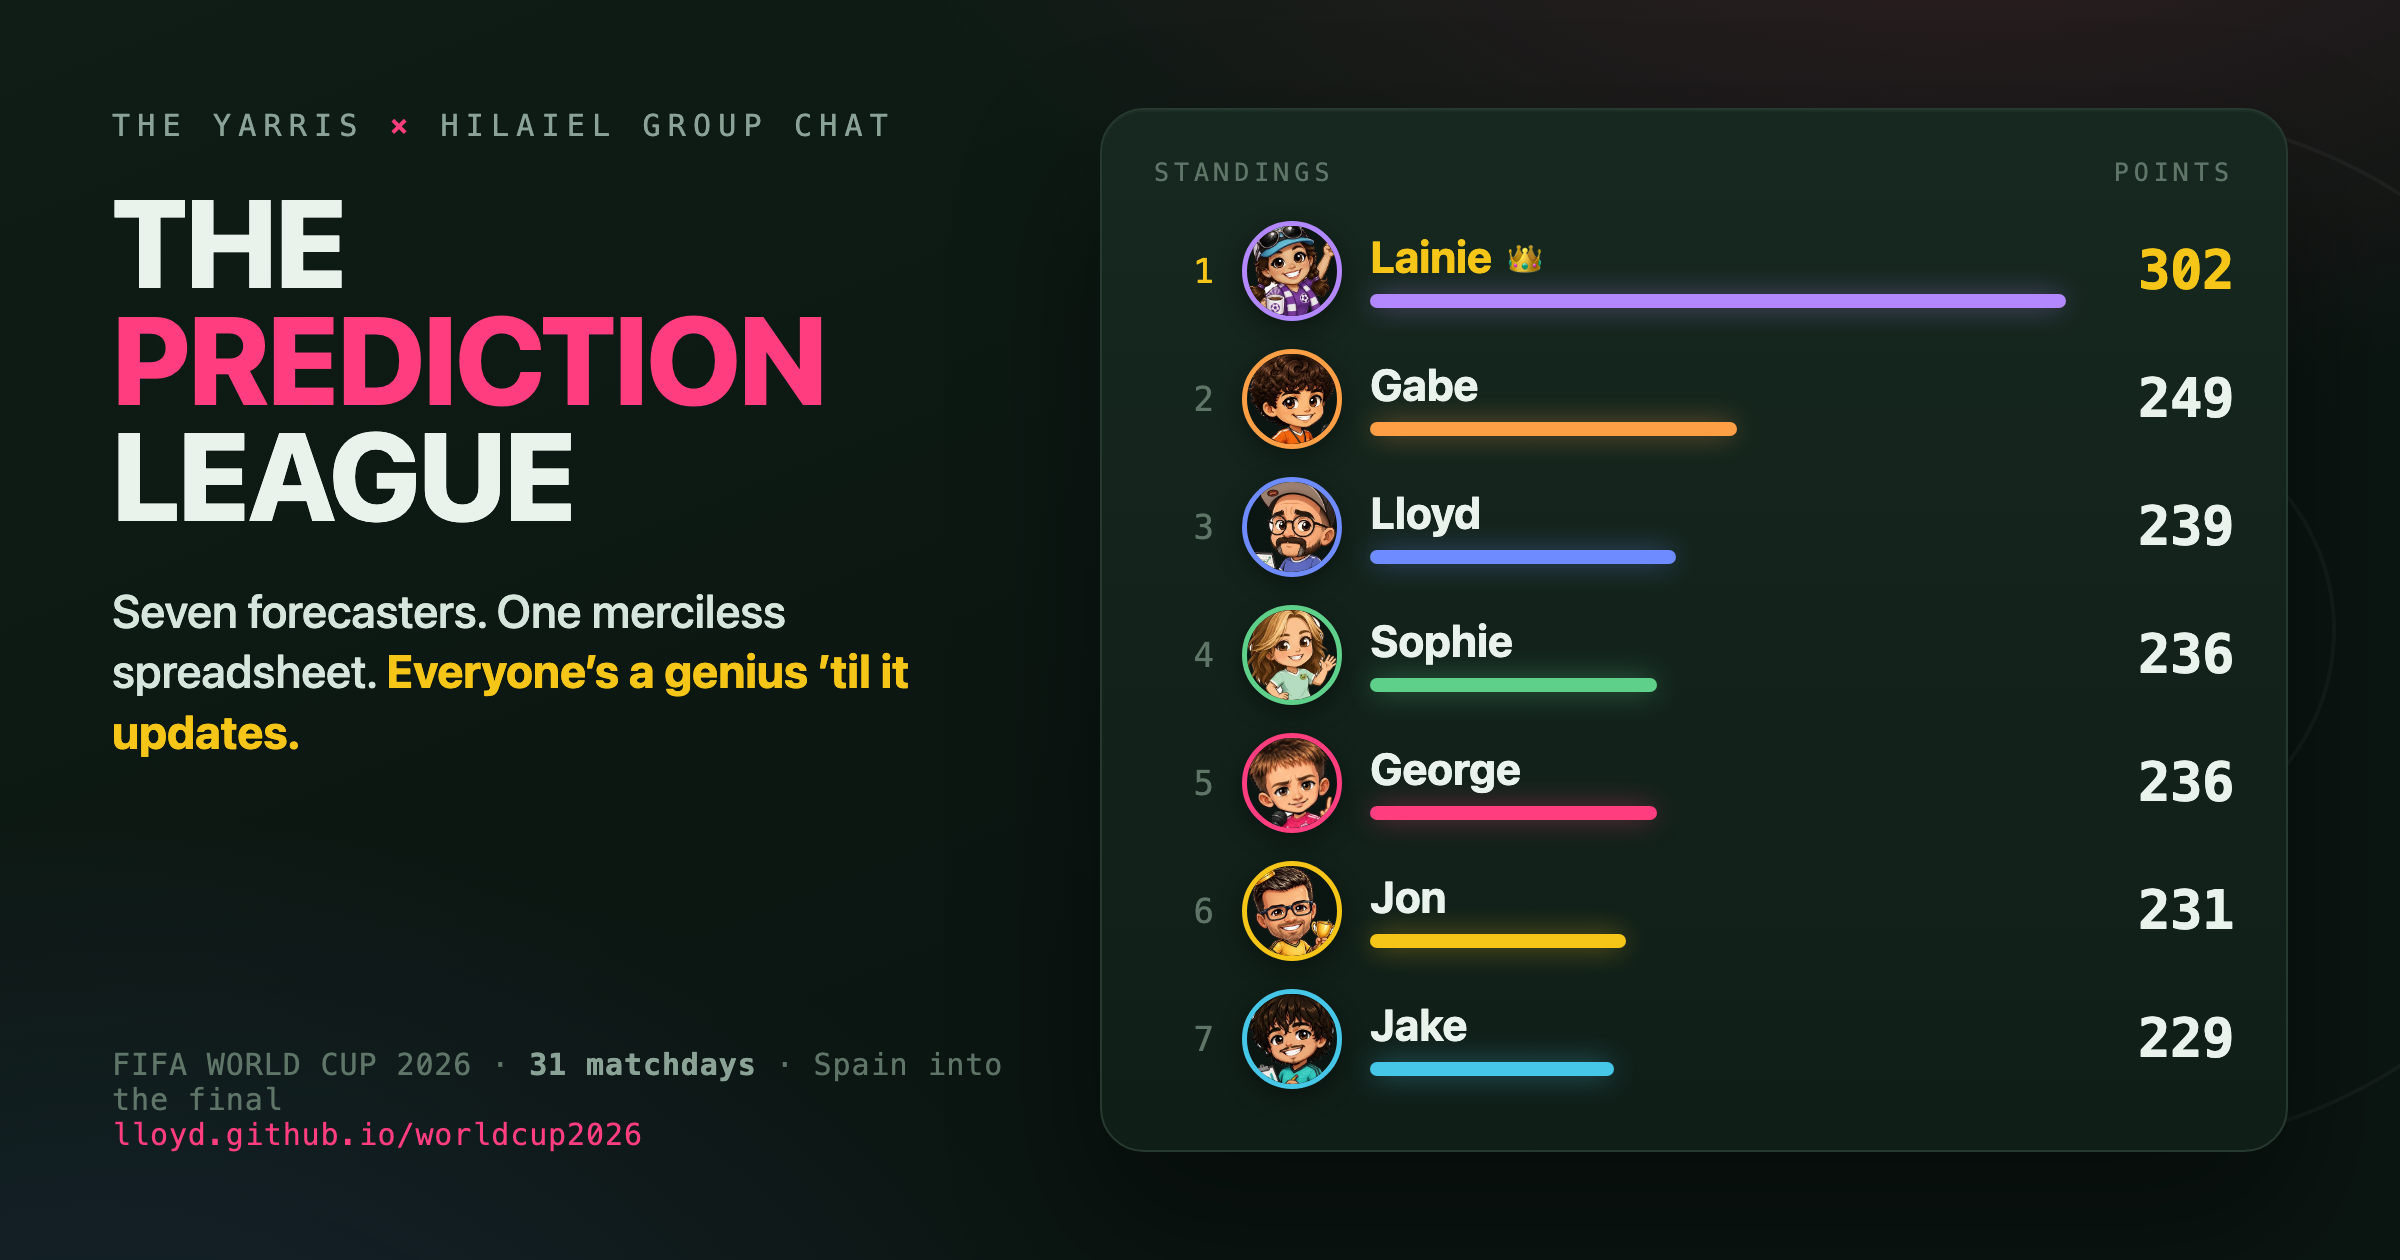
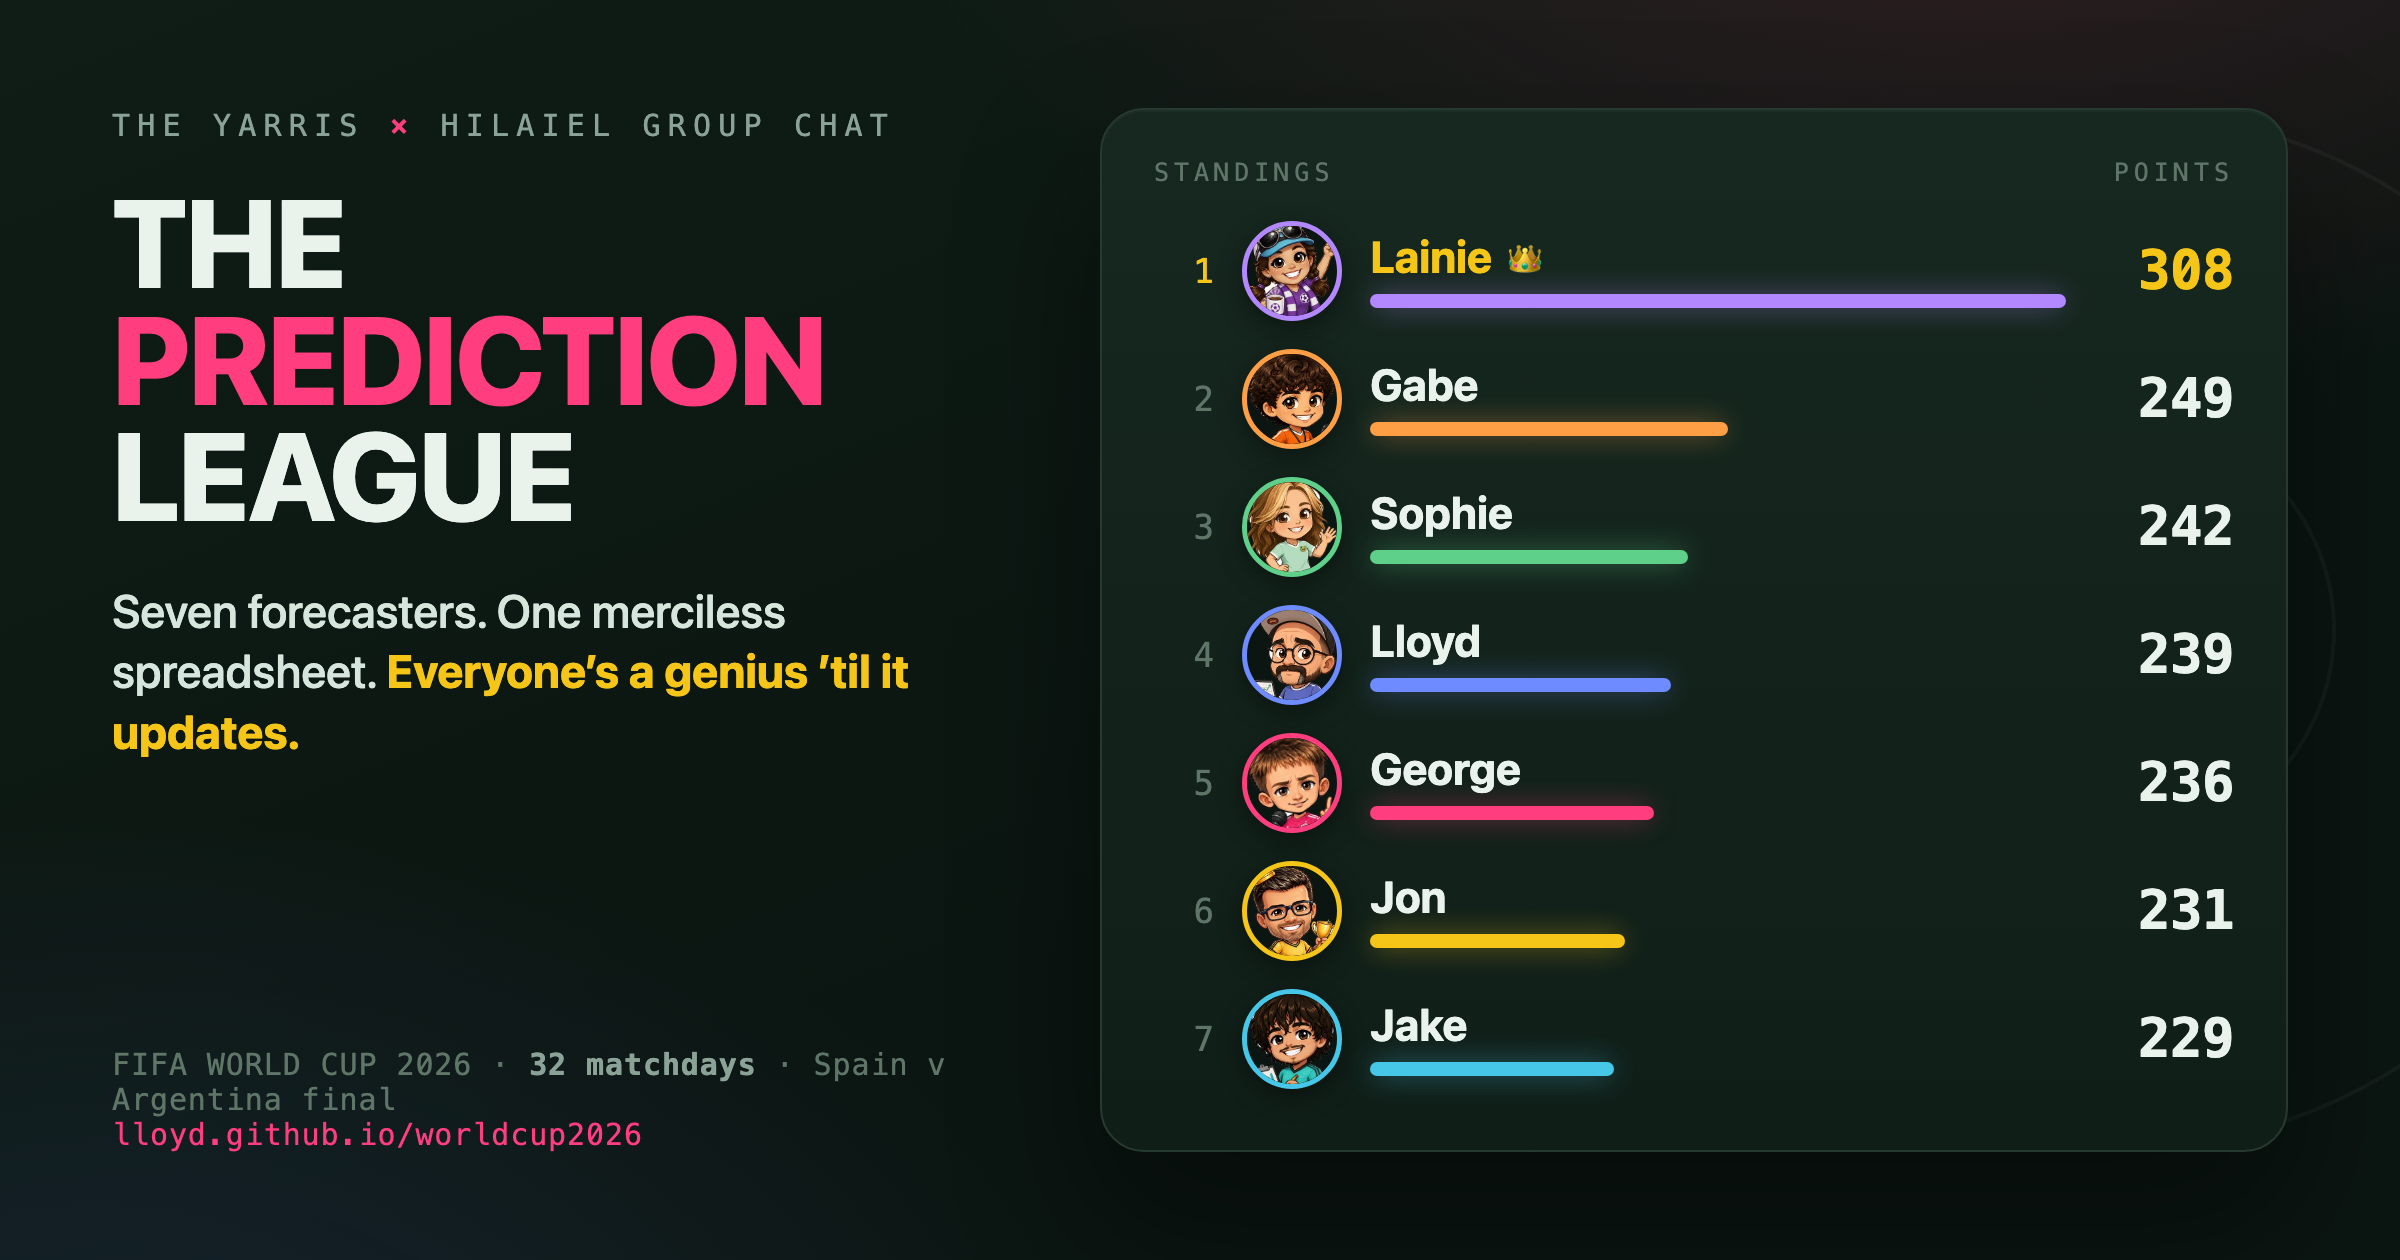
deploy: Matchday 32 (Jul 15): the whole family backs England — Argentina 2-1, only Mom & Sophie survive
NOTE: no official screenshot; computed and independently re-scored. Semifinal 2,
one game, x3. The final is now set: Spain v Argentina (x4).

Result: Argentina 2-1 England. Argentina came back from 1-0 down (Messi 2 assists,
Enzo) to reach the final.

The story: FIVE of seven backed England (Jon/George/Jake all England 3-2, Gabe
England 2-1, Lloyd's joke "Crumpets 2-1 choripan" = England 2-1) -- and all five
blanked at x3. Only two survived: Lainie (2-2, Argentina on pens -> correct
advancer floor +6) and Sophie (the ONLY soul to call Argentina to win outright,
3-2, +6). "This is why we don't predict against Messi!"

Standings: Lainie 308, Gabe 249, Sophie 242, Lloyd 239, George 236, Jon 231,
Jake 229. Lainie's lead grows back to 59. Sophie's +6 climbs her past Lloyd to
3rd; Lloyd to 4th; the 236 Sophie/George tie breaks (George now clear 5th).
Still 4 lead changes (Lainie leads).

Deltas (x3): Lainie 6, Sophie 6, everyone else 0.

No perfect (nobody wrote Argentina 2-1) -> Nailed It board unchanged. Updated fp
cards, scoreboard (Sophie to 3rd), narrative + Rulebook (final set Spain v
Argentina, x4), chat (Crumpets/choripan whiff, "Futbols comin home", "Pure
magic", "This is why we don't predict against Messi", parking-the-bus-in-a-fire-
lane), counts (32 matchdays, 102 games, 714 predictions, Jun 11-Jul 15), and the
social card (new order + ?v=32).

diff --git a/index.html b/index.html
@@ -9,18 +9,18 @@
   <meta property="og:url" content="https://lloyd.github.io/worldcup2026/">
   <meta property="og:site_name" content="The Prediction League">
   <meta property="og:title" content="The Prediction League — World Cup 2026">
-  <meta property="og:description" content="Seven family forecasters, one merciless spreadsheet, 31 matchdays of confidently-wrong scorelines. Everyone’s a genius ’til the standings update.">
-  <meta property="og:image" content="https://lloyd.github.io/worldcup2026/assets/og-card.png?v=31">
-  <meta property="og:image:secure_url" content="https://lloyd.github.io/worldcup2026/assets/og-card.png?v=31">
+  <meta property="og:description" content="Seven family forecasters, one merciless spreadsheet, 32 matchdays of confidently-wrong scorelines. Everyone’s a genius ’til the standings update.">
+  <meta property="og:image" content="https://lloyd.github.io/worldcup2026/assets/og-card.png?v=32">
+  <meta property="og:image:secure_url" content="https://lloyd.github.io/worldcup2026/assets/og-card.png?v=32">
   <meta property="og:image:type" content="image/png">
   <meta property="og:image:width" content="2400">
   <meta property="og:image:height" content="1260">
-  <meta property="og:image:alt" content="The Prediction League standings — Lainie leads at 302 (lead 53) as Spain reach the final; a tightening pack from Gabe to Jake chases, each with a chibi avatar.">
+  <meta property="og:image:alt" content="The Prediction League standings — Lainie leads at 308 (lead 59) with the final set Spain v Argentina; Gabe, Sophie and a tight pack chase, each with a chibi avatar.">
   <meta name="twitter:card" content="summary_large_image">
   <meta name="twitter:title" content="The Prediction League — World Cup 2026">
   <meta name="twitter:description" content="Seven family forecasters, one merciless spreadsheet. Everyone’s a genius ’til the standings update.">
-  <meta name="twitter:image" content="https://lloyd.github.io/worldcup2026/assets/og-card.png?v=31">
-  <meta name="twitter:image:alt" content="Live World Cup 2026 family prediction standings, Lainie leading at 302 after the semifinals.">
+  <meta name="twitter:image" content="https://lloyd.github.io/worldcup2026/assets/og-card.png?v=32">
+  <meta name="twitter:image:alt" content="Live World Cup 2026 family prediction standings, Lainie leading at 308 with a Spain v Argentina final set.">
   <title>World Cup 2026 — The Yarris–Hilaiel Prediction League</title>
   <style>
     /* minimal reset (standalone host) */
@@ -276,14 +276,14 @@
     <div class="floods"></div>
     <p class="eyebrow">The Yarris &times; Hilaiel group chat &nbsp;·&nbsp; <b>FIFA World Cup 2026</b></p>
     <h1>The Prediction<br>League
-      <span class="small">Seven people. Thirty-one matchdays. One hundred and one games called by text, scored <b>2&nbsp;/&nbsp;3&nbsp;/&nbsp;5</b> in a spreadsheet that never sleeps &mdash; doubled in the knockouts, and <b>tripled</b> through the quarters and semis. This is the season so far &mdash; for the data nerds among us.</span>
+      <span class="small">Seven people. Thirty-two matchdays. One hundred and two games called by text, scored <b>2&nbsp;/&nbsp;3&nbsp;/&nbsp;5</b> in a spreadsheet that never sleeps &mdash; doubled in the knockouts, <b>tripled</b> through the quarters and semis, with a <b>×4</b> final still to come. Spain v Argentina awaits. This is the season so far &mdash; for the data nerds among us.</span>
     </h1>
 
     <div class="kicker">
-      <span><b class="num">101</b> games predicted</span><span class="dot">●</span>
+      <span><b class="num">102</b> games predicted</span><span class="dot">●</span>
       <span><b class="num">7</b> rival forecasters</span><span class="dot">●</span>
       <span><b class="num">4</b> lead changes that mattered</span><span class="dot">●</span>
-      <span>Jun 11&ndash;Jul 14, 2026</span>
+      <span>Jun 11&ndash;Jul 15, 2026</span>
     </div>
 
     <div class="scoreboard" id="scoreboard"></div>
@@ -294,7 +294,7 @@
     <div class="sec-head rv">
       <p class="eyebrow">01 — The title race</p>
       <h2>George, Jon, Lainie, Gabe —<br>and now Lainie again.</h2>
-      <p>Every line is one forecaster&rsquo;s running point total. George led from the opening whistle, but the first two weeks were a knife-fight &mdash; <b>four lead changes</b> in eleven days, the last of them Lainie&rsquo;s on <b>MD16</b>, which she never gave back. The knockouts turned that lead into a rout: <b>doubled points</b>, then <b>×3 quarters</b>, peaking at a blind, no-research <b>+24</b> and a <b>59</b>-point cushion. Then the semifinals humbled her &mdash; the whole family piled on France, <b>Spain won 2&ndash;0</b>, and Lainie&rsquo;s <b>first ×3 zero</b> trimmed the gap to <b>53</b>. Behind her the pack churns: George&rsquo;s lone-right <b>Spain 2&ndash;1</b> rocketed him from 7th to a tie for 4th, Lloyd&rsquo;s Spain call nudged him to 3rd, and six players now sit inside twenty points &mdash; all chasing a leader who somehow keeps her lead even on her worst days.</p>
+      <p>Every line is one forecaster&rsquo;s running point total. George led from the opening whistle, but the first two weeks were a knife-fight &mdash; <b>four lead changes</b> in eleven days, the last of them Lainie&rsquo;s on <b>MD16</b>, which she never gave back. The knockouts turned that lead into a rout: <b>doubled points</b>, then <b>×3 quarters</b>, peaking at a blind, no-research <b>+24</b> and a <b>59</b>-point cushion. Then the semifinals came, and the family walked into both traps: they piled on France (Spain won 2&ndash;0) and then on England (Argentina 2&ndash;1). Lainie, who backed neither favourite, banked <b>+6</b> in each and pushed her lead back to <b>59</b> on <b>308</b> &mdash; the blind-vote queen untouchable. Behind her only Sophie kept pace, the <b>lone</b> soul to call Argentina outright, climbing to <b>3rd</b>. Everyone else sits inside twelve points, chasing a leader who somehow scores on the very days they all blank. Now: <b>Spain v Argentina</b>, the ×4 final.</p>
     </div>
     <div class="panel rv">
       <div class="chart-scroll"><div id="race-chart"></div></div>
@@ -427,13 +427,13 @@
       <div class="pl"><span class="n">5</span><span class="t">Shootout + the <b>exact</b> regulation score.</span></div>
       <div class="pl"><span class="n">6</span><span class="t">Shootout + exact score <b>and</b> the right winner.</span></div>
     </div>
-    <p class="mult rv">Multipliers are <b>live</b>: Matchday&nbsp;18 &mdash; Canada v South Africa &mdash; was the first game scored <b>×2</b>, and the first quarterfinal &mdash; France v Morocco on <b>Matchday&nbsp;28</b> &mdash; opened <b>×3</b> scoring, where Gabe&rsquo;s exact-2 call was worth a clean <span class="num">+9</span>. All four quarterfinals paid triple, capped by a rare four-way <b>Argentina 3&ndash;1</b> perfect worth <span class="num">+15</span> apiece. The <b>semifinals hold at ×3</b> &mdash; France v Spain on <b>Matchday&nbsp;31</b> was the first, and a France-backing family mostly blanked as Spain won 2&ndash;0. The full ladder, per the Commissioner: round of 32 and 16 <b>×2</b>, quarters and semis <b>×3</b>, the final <b>×4</b> &mdash; still to come. (George tried to wake a multiplier early on Matchday&nbsp;17, moving to double Colombia v Portugal; the vote deadlocked, the game finished <b>0&ndash;0</b>, and the idea went back to sleep &mdash; until the knockouts.)</p>
+    <p class="mult rv">Multipliers are <b>live</b>: Matchday&nbsp;18 &mdash; Canada v South Africa &mdash; was the first game scored <b>×2</b>, and the first quarterfinal &mdash; France v Morocco on <b>Matchday&nbsp;28</b> &mdash; opened <b>×3</b> scoring, where Gabe&rsquo;s exact-2 call was worth a clean <span class="num">+9</span>. All four quarterfinals paid triple, capped by a rare four-way <b>Argentina 3&ndash;1</b> perfect worth <span class="num">+15</span> apiece. The <b>semifinals hold at ×3</b> &mdash; France v Spain on <b>Matchday&nbsp;31</b> was the first, and a France-backing family mostly blanked as Spain won 2&ndash;0. Both semifinals held at ×3, and both bit a favourite-loving family: France fell on <b>MD31</b>, England on <b>MD32</b> (Argentina 2&ndash;1). The full ladder, per the Commissioner: round of 32 and 16 <b>×2</b>, quarters and semis <b>×3</b>, the final <b>×4</b> &mdash; live for <b>Spain v Argentina</b>, where one perfect call is worth <span class="num">20</span>. (George tried to wake a multiplier early on Matchday&nbsp;17, moving to double Colombia v Portugal; the vote deadlocked, the game finished <b>0&ndash;0</b>, and the idea went back to sleep &mdash; until the knockouts.)</p>
   </section>
 
   <footer>
     <div class="rv">
       <div style="font-family:var(--mono);font-size:12px;letter-spacing:.2em;text-transform:uppercase;color:var(--accent);margin-bottom:10px">Full time — for now</div>
-      Built from the group chat&rsquo;s own record: <span class="num">31</span> matchdays, <span class="num">101</span> games, <span class="num">707</span> predictions, and one spreadsheet kept by Jake (independently audited &mdash; reconciles to the family&rsquo;s official totals, to the point). Spain are into the final; one <span class="num">semifinal</span> left to set the other side.
+      Built from the group chat&rsquo;s own record: <span class="num">32</span> matchdays, <span class="num">102</span> games, <span class="num">714</span> predictions, and one spreadsheet kept by Jake (independently audited &mdash; reconciles to the family&rsquo;s official totals, to the point). The <span class="num">final</span> is set: <b>Spain v Argentina</b>, scored <span class="num">×4</span>.
       Standings are the family&rsquo;s official totals; each day&rsquo;s points reconcile exactly to them. The cup rolls on.
       <div style="margin-top:14px;color:var(--muted-2)">&ldquo;The data nerds among us want more data.&rdquo; &mdash; Lloyd, having the last word.</div>
     </div>
@@ -446,38 +446,38 @@ const D = {
   color:{Jon:"#F5C518",George:"#FF3D7F",Jake:"#46C7E8",Lainie:"#B388FF",Gabe:"#FF9F45",Sophie:"#5FD08A",Lloyd:"#6E8BFF"},
   // cumulative totals, index 0..N (0 = start), one entry per matchday — charts derive N from this
   cum:{
-    Jon:[0,5,7,10,20,25,36,45,49,55,59,67,72,76,85,91,102,115,119,123,139,151,165,171,181,181,185,195,201,210,231,231],
-    George:[0,8,11,16,23,25,32,40,46,52,54,62,73,80,84,94,106,114,118,122,130,144,160,172,182,186,190,194,200,206,227,236],
-    Jake:[0,7,10,12,19,21,30,37,39,45,50,58,66,72,81,88,99,107,107,107,121,137,153,163,179,187,187,193,199,208,229,229],
-    Lainie:[0,3,5,10,15,15,27,32,38,47,58,63,78,88,94,101,116,132,142,164,186,198,214,238,250,250,254,260,269,278,302,302],
-    Gabe:[0,5,8,11,13,13,25,30,33,43,54,62,72,80,97,103,113,123,129,135,155,165,181,193,205,209,209,213,222,228,243,249],
-    Sophie:[0,0,2,5,12,14,22,29,31,38,48,56,66,73,81,89,102,115,119,129,151,167,177,189,199,203,203,209,215,230,236,236],
-    Lloyd:[0,3,5,8,12,12,21,25,30,38,47,54,62,69,78,87,101,112,122,122,138,158,178,192,200,210,214,218,218,218,233,239],
+    Jon:[0,5,7,10,20,25,36,45,49,55,59,67,72,76,85,91,102,115,119,123,139,151,165,171,181,181,185,195,201,210,231,231,231],
+    George:[0,8,11,16,23,25,32,40,46,52,54,62,73,80,84,94,106,114,118,122,130,144,160,172,182,186,190,194,200,206,227,236,236],
+    Jake:[0,7,10,12,19,21,30,37,39,45,50,58,66,72,81,88,99,107,107,107,121,137,153,163,179,187,187,193,199,208,229,229,229],
+    Lainie:[0,3,5,10,15,15,27,32,38,47,58,63,78,88,94,101,116,132,142,164,186,198,214,238,250,250,254,260,269,278,302,302,308],
+    Gabe:[0,5,8,11,13,13,25,30,33,43,54,62,72,80,97,103,113,123,129,135,155,165,181,193,205,209,209,213,222,228,243,249,249],
+    Sophie:[0,0,2,5,12,14,22,29,31,38,48,56,66,73,81,89,102,115,119,129,151,167,177,189,199,203,203,209,215,230,236,236,242],
+    Lloyd:[0,3,5,8,12,12,21,25,30,38,47,54,62,69,78,87,101,112,122,122,138,158,178,192,200,210,214,218,218,218,233,239,239],
   },
-  dayLabel:["","MD1","MD2","MD3","MD4","MD5","MD6","MD7","MD8","MD9","MD10","MD11","MD12","MD13","MD14","MD15","MD16","MD17","MD18","MD19","MD20","MD21","MD22","MD23","MD24","MD25","MD26","MD27","MD28","MD29","MD30","MD31"],
-  dayDate:["","Jun 11","Jun 12","Jun 13","Jun 14","Jun 15","Jun 16","Jun 17","Jun 18","Jun 19","Jun 20","Jun 21","Jun 22","Jun 23","Jun 24","Jun 25","Jun 26","Jun 27","Jun 28","Jun 29","Jun 30","Jul 1","Jul 2","Jul 3","Jul 4","Jul 5","Jul 6","Jul 7","Jul 8","Jul 9","Jul 11","Jul 14"],
+  dayLabel:["","MD1","MD2","MD3","MD4","MD5","MD6","MD7","MD8","MD9","MD10","MD11","MD12","MD13","MD14","MD15","MD16","MD17","MD18","MD19","MD20","MD21","MD22","MD23","MD24","MD25","MD26","MD27","MD28","MD29","MD30","MD31","MD32"],
+  dayDate:["","Jun 11","Jun 12","Jun 13","Jun 14","Jun 15","Jun 16","Jun 17","Jun 18","Jun 19","Jun 20","Jun 21","Jun 22","Jun 23","Jun 24","Jun 25","Jun 26","Jun 27","Jun 28","Jun 29","Jun 30","Jul 1","Jul 2","Jul 3","Jul 4","Jul 5","Jul 6","Jul 7","Jul 8","Jul 9","Jul 11","Jul 14","Jul 15"],
   fp:{ // n, avgGoals, drawRate, favScore, favCount, role, blurb
     Jon:{role:"The Closer",pts:231,rank:6,avg:3.29,draw:.214,fav:"2-2",favN:5,
-      quote:"I’m barely hanging on to the top flight",
-      fp:"Most goals per game (<b>3.29</b>). His France 3–1 went down with the rest of the <i>allez-les-bleus</i> believers — a semifinal <b>×3 zero</b> — and the Closer slips to <b>6th</b> on <b>231</b> as George and Lloyd climb past."},
-    Lainie:{role:"The Matriarch",pts:302,rank:1,avg:2.43,draw:.143,fav:"2-1",favN:8,
-      quote:"They just need hydration!",
-      fp:"The runaway leader took her <b>first ×3 zero</b> — she backed France 2–1 like most of the family, and Spain rolled them 2–0. But at <b>302</b> she can shrug it off: the lead only trims to <b>53</b>. Still running away, still the blind-vote queen."},
+      quote:"England 3-2 Argentina. I hope I’m wrong",
+      fp:"Most goals per game (<b>3.29</b>). Twice he typed <b>England 3–2</b> — &lsquo;I hope I&rsquo;m wrong&rsquo; — and he was, just not how he wanted: Argentina 2–1. A second straight <b>×3 zero</b> holds the Closer on <b>231</b> in <b>6th</b>."},
+    Lainie:{role:"The Matriarch",pts:308,rank:1,avg:2.43,draw:.143,fav:"2-1",favN:8,
+      quote:"This is why we don’t predict against Messi!",
+      fp:"The blind-vote queen dodges the trap again: while five of seven backed England, she wrote 2–2, <b>Argentina on pens</b>, caught the right finalist for <b>+6</b>, and pushed to <b>308</b> — the lead back out to <b>59</b>. She meets the final as an unbackable <b>runaway #1</b>."},
     Gabe:{role:"The Commissioner",pts:249,rank:2,avg:3.17,draw:.167,fav:"2-0",favN:4,
-      quote:"32 and 16 is 2x, qf and sf is 3x, final is 4x",
-      fp:"Founded the league and wrote the rules — and reminded everyone of them. His France 2–2, <b>Spain-on-pens</b> caught the right finalist for a floor <b>+6</b> to <b>249</b>, holding <b>2nd</b>, 53 behind Mom."},
+      quote:"Copa America winners vs euros winners in the final",
+      fp:"Founded the league and wrote the rules. His England 2–1 went down with the rest of the believers as Argentina roared back — a semifinal <b>×3 zero</b> — but he holds <b>2nd</b> on <b>249</b>, still 59 behind Mom. His dream final is booked: Copa América v Euros winners."},
     George:{role:"The Frontrunner",pts:236,rank:5,avg:3.14,draw:.143,fav:"2-1",favN:5,
-      quote:"Spain 2-1 France",
-      fp:"The Frontrunner’s revenge: one of three to back Spain, and the <b>only</b> one to catch its exact 2 — his <b>Spain 2–1</b> banked the day’s best haul, a tripled <b>+9</b> that rocketed him from <b>7th to a tie for 4th</b> at <b>236</b>. Led matchdays 1–5; suddenly back in the mix. Still eyeing <b>Bulgaria at WC 2030</b>."},
+      quote:"Futbols comin home 🎶",
+      fp:"The Frontrunner’s revenge was short-lived: &ldquo;Futbols comin home&rdquo; sang the <b>England 3–2</b> pick — then Argentina came home instead. A ×3 zero leaves him <b>5th</b> on <b>236</b> as the tie with Sophie breaks upward. Led matchdays 1–5; still eyeing <b>Bulgaria at WC 2030</b>."},
     Jake:{role:"The Statistician",pts:229,rank:7,avg:3.00,draw:.107,fav:"3-1",favN:7,
-      quote:"I’m cheering for the man of the tournament, Mikel Merino",
-      fp:"Keeper of the official scores, cheering for &lsquo;man of the tournament&rsquo; Mikel Merino — then Merino’s <b>Spain</b> rolled his France pick 2–0. A semifinal <b>×3 zero</b> drops the Statistician to <b>7th</b> on <b>229</b>. Signature <b>3-1</b> (×7)."},
-    Sophie:{role:"The Rookie",pts:236,rank:4,avg:2.78,draw:.174,fav:"1-2",favN:6,
-      quote:"So so sad",
-      fp:"The Rookie joined the France pile-on (3–2) and blanked at ×3 — a second straight quiet day. She holds <b>236</b>, now <b>level with George</b> and clinging to <b>4th</b> as the chasing pack tightens behind Mom."},
-    Lloyd:{role:"The Data Nerd",pts:239,rank:3,avg:2.57,draw:.143,fav:"2-1",favN:4,
-      quote:"If you fake it like Saka, we gotta have a talka",
-      fp:"On the right side of a coin flip for once. One of only three to back <b>Spain</b>, his Spain 3–2 caught the winner for a tripled <b>+6</b>, nudging the data nerd up to <b>239</b> and <b>3rd</b> — his best rank since the group stage. No rap required."},
+      quote:"Pure magic. The stuff of legend",
+      fp:"Keeper of the official scores, dazzled by the &lsquo;pure magic&rsquo; that beat his own pick: his terse <b>E 3–2 A</b> lost to Argentina&rsquo;s comeback. A second straight <b>×3 zero</b> keeps the Statistician <b>7th</b> on <b>229</b>. Signature <b>3-1</b> (×7)."},
+    Sophie:{role:"The Rookie",pts:242,rank:3,avg:2.78,draw:.174,fav:"1-2",favN:6,
+      quote:"average argentina goal",
+      fp:"The Rookie broke from the pack: the <b>only</b> soul to pick Argentina to win outright (3–2), she banked <b>+6</b> while the five England backers blanked — enough to climb past Lloyd into <b>3rd</b> on <b>242</b>. &ldquo;Average argentina goal,&rdquo; she shrugged at a stunner."},
+    Lloyd:{role:"The Data Nerd",pts:239,rank:4,avg:2.57,draw:.143,fav:"2-1",favN:5,
+      quote:"It’s like parking the bus in a fire lane",
+      fp:"The data nerd went full bit — <i>&lsquo;Crumpets 2–1 choripan; the args will throw all their sandwiches but the cheeky Brits win the day&rsquo;</i> — and the args served a Messi masterclass instead. A ×3 zero holds him on <b>239</b>, nudged to <b>4th</b> as Sophie climbs past."},
   },
   boldest:[
     {g:7,by:"George",d:9,m:"Brazil 6-1 Haiti",v:""},
@@ -673,6 +673,16 @@ const D = {
     {s:"Lainie Yarris",me:false,t:"😭 🇫🇷 😢"},
     {s:"Lainie Yarris",me:false,t:"Gabe you could totally rock that Cucurella hair"},
     {s:"Gabe Yarris",me:false,t:"My hair is not that curly. Also no"},
+    {s:"Lloyd",me:true,t:"Crumpets 2 - 1 choripan. The args will throw all their sandwiches but the cheeky Brits will win the day"},
+    {s:"George Hilaiel",me:false,t:"Futbols comin home 🎶"},
+    {s:"Jake Yarris",me:false,t:"Messi is cooking up some magic"},
+    {s:"Gabe Yarris",me:false,t:"Enzoooooooo"},
+    {s:"George Hilaiel",me:false,t:"Inevitable"},
+    {s:"Jake Yarris",me:false,t:"Pure magic. The stuff of legend"},
+    {s:"Lloyd",me:true,t:"How do they do this every time!?!?"},
+    {s:"Lainie Yarris",me:false,t:"This is why we don’t predict against Messi!"},
+    {s:"Lloyd",me:true,t:"It’s like parking the bus in a fire lane"},
+    {s:"Gabe Yarris",me:false,t:"Copa America winners vs euros winners in the final"},
   ],
 };
 
@@ -683,9 +693,9 @@ function clamp(v,a,b){return Math.max(a,Math.min(b,v));}
 
 /* ---------- hero scoreboard ---------- */
 (function(){
-  const order=[["Lainie",1],["Gabe",2],["Lloyd",3]];
-  const tag={Lainie:"Runaway #1 — 302, lead 53",Gabe:"2nd · steady on silver",Lloyd:"3rd · back on the podium"};
-  const crown={Lainie:"👑",Gabe:"",Lloyd:""};
+  const order=[["Lainie",1],["Gabe",2],["Sophie",3]];
+  const tag={Lainie:"Runaway #1 — 308, lead 59",Gabe:"2nd · steady on silver",Sophie:"3rd · the lone Argentina call"};
+  const crown={Lainie:"👑",Gabe:"",Sophie:""};
   const host=document.getElementById("scoreboard");
   order.forEach(([p,r])=>{
     const pts=D.cum[p][D.cum[p].length-1];

diff --git a/assets/og/card.html b/assets/og/card.html
@@ -66,7 +66,7 @@
     <div class="eyebrow">The Yarris <b>×</b> Hilaiel group chat</div>
     <h1>THE<br><span class="p">PREDICTION</span><br>LEAGUE</h1>
     <div class="tag">Seven forecasters. One merciless spreadsheet. <b>Everyone’s a genius ’til it updates.</b></div>
-    <div class="foot">FIFA WORLD CUP 2026 &middot; <b>31 matchdays</b> &middot; Spain into the final<br><span class="u">lloyd.github.io/worldcup2026</span></div>
+    <div class="foot">FIFA WORLD CUP 2026 &middot; <b>32 matchdays</b> &middot; Spain v Argentina final<br><span class="u">lloyd.github.io/worldcup2026</span></div>
   </div>
 
   <div class="board">
@@ -77,10 +77,10 @@
 <script>
   // Keep in sync with index.html D.cum (final totals) + colors. Bar = pts / leader.
   const STAND = [
-    ["Lainie", 302, "#B388FF", true],
+    ["Lainie", 308, "#B388FF", true],
     ["Gabe",   249, "#FF9F45", false],
+    ["Sophie", 242, "#5FD08A", false],
     ["Lloyd",  239, "#6E8BFF", false],
-    ["Sophie", 236, "#5FD08A", false],
     ["George", 236, "#FF3D7F", false],
     ["Jon",    231, "#F5C518", false],
     ["Jake",   229, "#46C7E8", false],